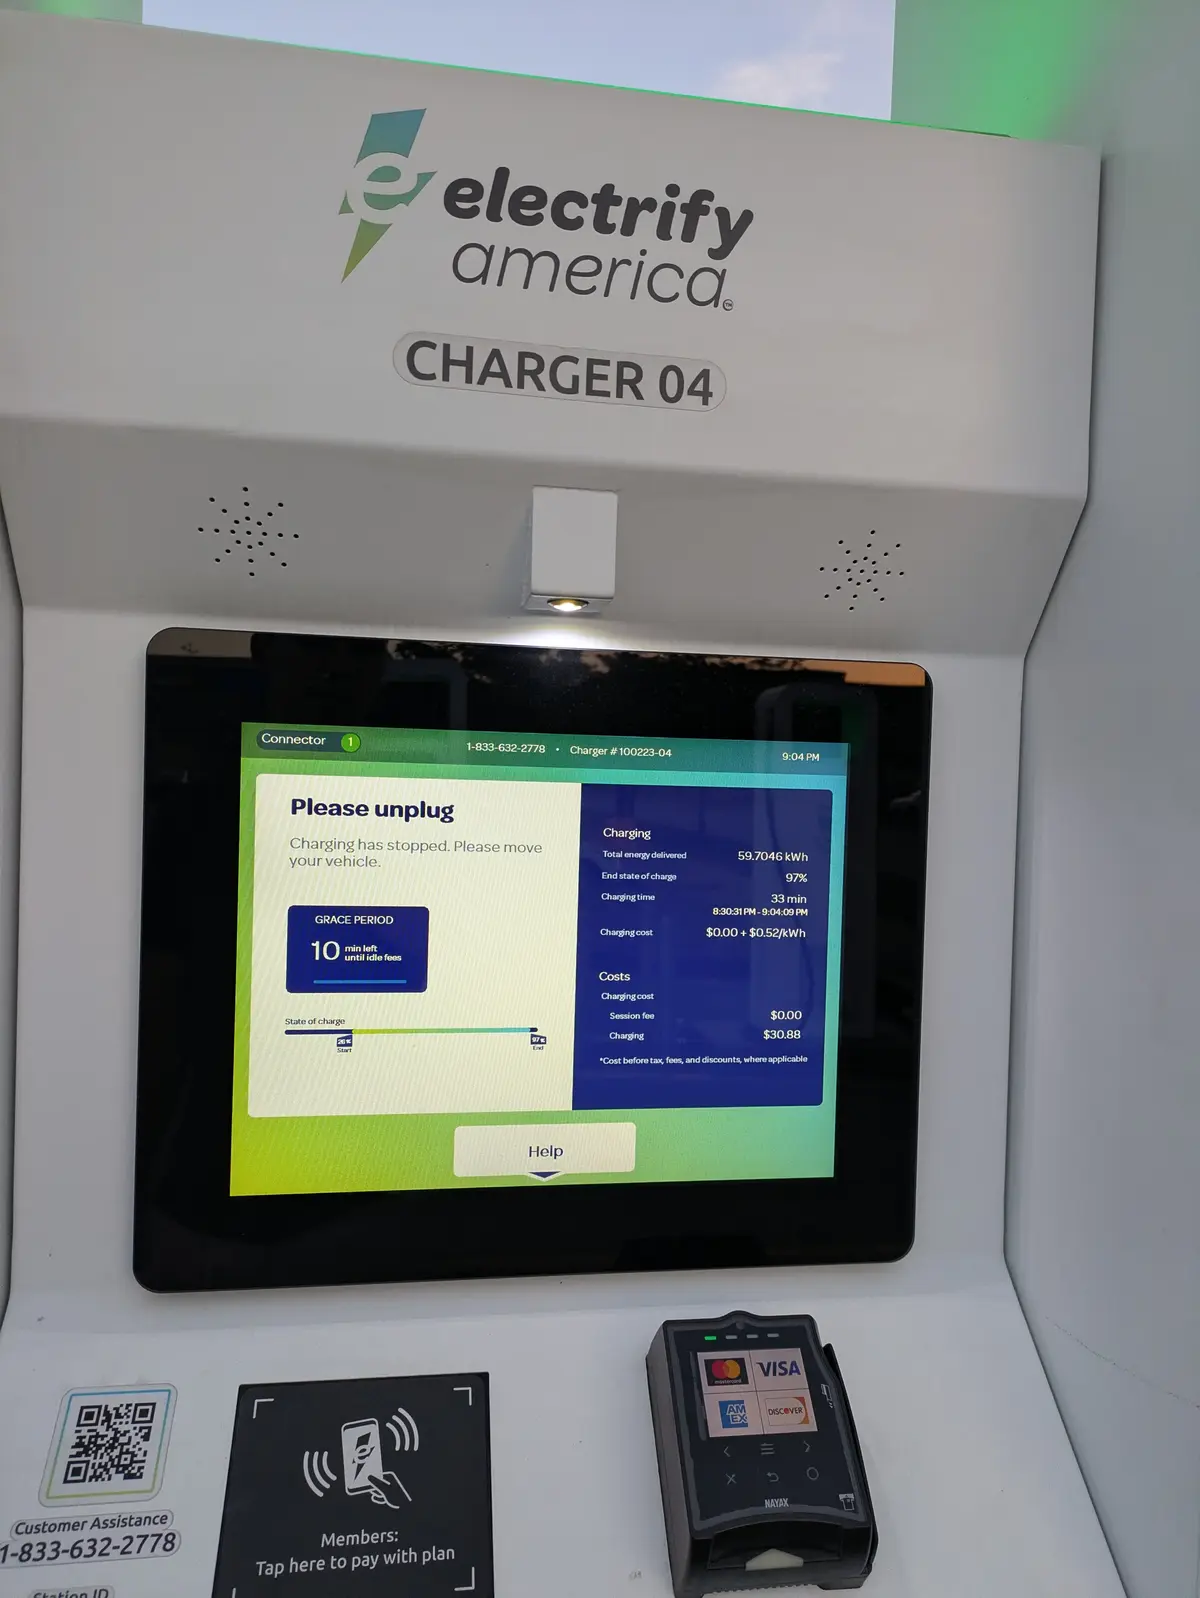
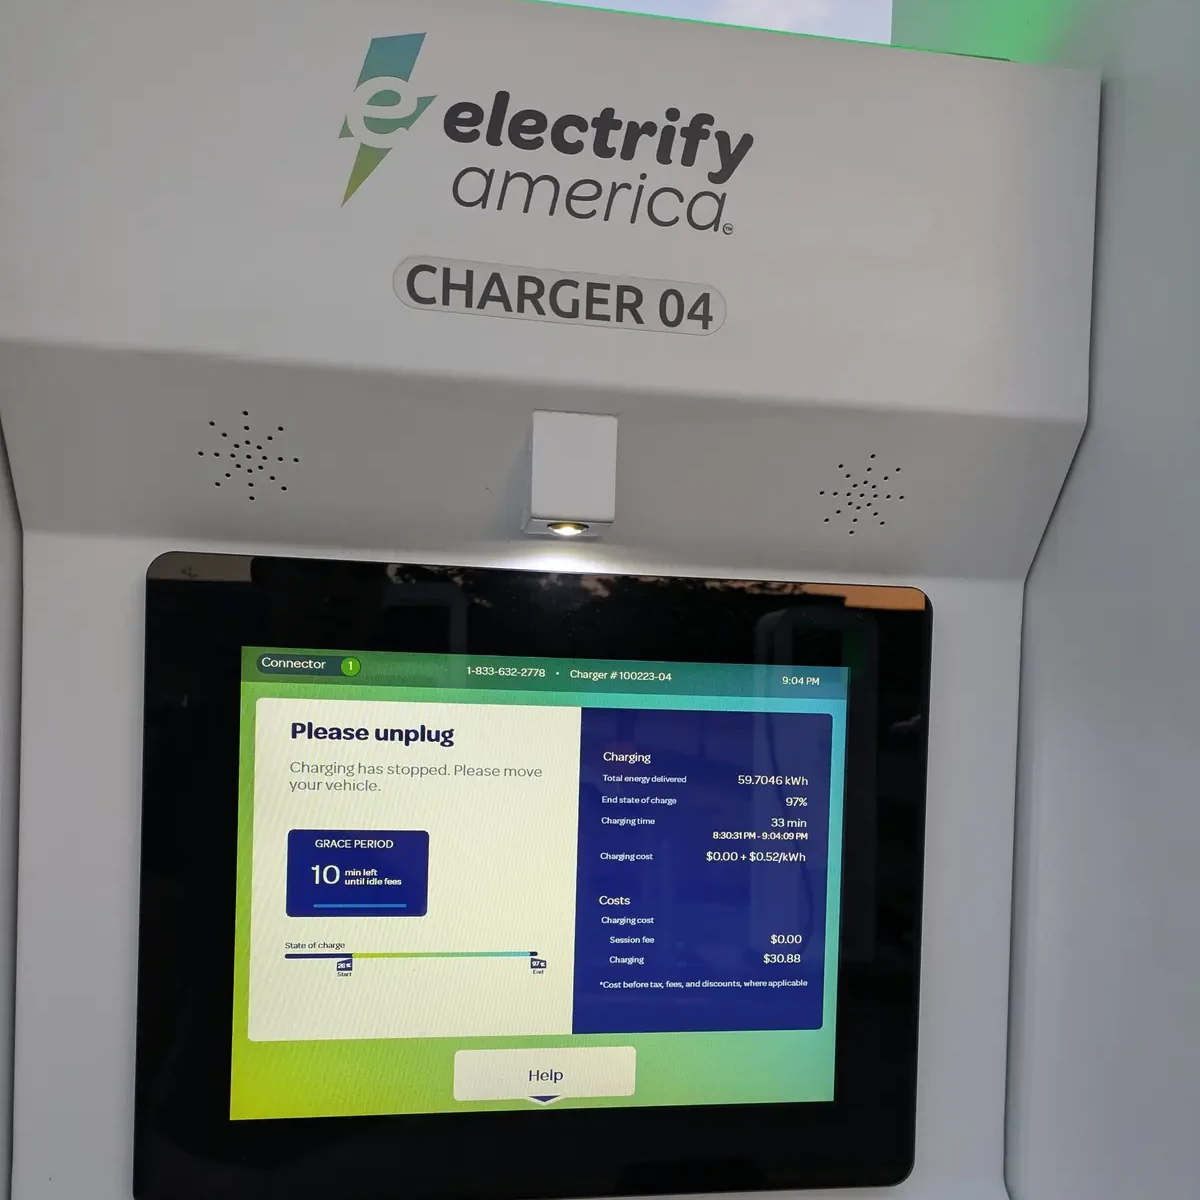
Flesh out EV article more

diff --git a/css/articles/ev-road-trip.scss b/css/articles/ev-road-trip.scss
@@ -13,6 +13,20 @@ $cost-table-title-padding-y: 4px;
 // Vertical padding on the header and total band rows
 $cost-table-band-padding-y: 0.5rem;
 
+// Gap between images in the multi-column image grids
+$image-grid-gap: 1rem;
+// Vertical breathing room above and below an image grid
+$image-grid-margin-y: 1.5rem;
+// Two-column grids hold tall screenshots, so cap them at the site's max content
+// width to keep each image a readable size
+$image-grid-two-col-max-width: 1200px;
+// Three-column grids get more room since each image is only a third as wide
+$image-grid-three-col-max-width: 90vw;
+// Height cap for height-matched grids. Roughly the height a 4:3 charger photo
+// reaches in a three-column grid, so a tall portrait receipt shrinks to sit
+// level with the photos beside it instead of towering over them.
+$image-grid-match-height: 320px;
+
 .cost-table {
   margin-top: 0.5rem;
 
@@ -88,6 +102,67 @@ $cost-table-band-padding-y: 0.5rem;
       max-width: $max-cont-width;
       margin-left: auto;
       margin-right: auto;
+    }
+  }
+}
+
+// Multi-column image layouts. Images stack in a single column on mobile, then
+// break out of the narrow article column on desktop so wide screenshots are
+// actually readable. Column count is set by the -two-col / -three-col modifier.
+.image-grid {
+  display: grid;
+  grid-template-columns: 1fr;
+  gap: $image-grid-gap;
+  margin: $image-grid-margin-y auto;
+
+  // The article's default image shadow only targets images directly inside a
+  // <p>, so re-apply it here to match the rest of the post's images.
+  img {
+    width: 100%;
+    border: solid 1px $grey;
+    box-shadow: 1px 1px 5px $shadow-color;
+    margin: 0 !important;
+  }
+
+  // Same full-bleed trick as .cost-table: escape the narrow article column with
+  // 100vw + translateX, then let each modifier cap its own width. Both stay
+  // centered because the auto side margins split the leftover space evenly.
+  @media (min-width: $desktop-min-width) {
+    width: 100vw;
+    margin-left: 50%;
+    transform: translateX(-50%);
+    // Screenshots vary in aspect ratio, so top-align them rather than
+    // stretching every image to the tallest one's height.
+    align-items: start;
+
+    &.-two-col {
+      grid-template-columns: repeat(2, 1fr);
+      max-width: $image-grid-two-col-max-width;
+    }
+
+    &.-three-col {
+      grid-template-columns: repeat(3, 1fr);
+      max-width: $image-grid-three-col-max-width;
+    }
+
+    // Portrait screenshots (like charger receipts) render far taller than the
+    // landscape photos beside them. Size these images by a shared height rather
+    // than a shared width, so each keeps its own aspect ratio and they all sit
+    // level - the portrait ones simply end up narrower. Equal-width grid
+    // columns would strand those narrow images in wide columns, so use a
+    // centered flex row that gives each image only the width its height
+    // implies. Mobile is untouched: images stay stacked and full width there.
+    &.-match-heights {
+      display: flex;
+      justify-content: center;
+
+      img {
+        height: $image-grid-match-height;
+        width: auto;
+        // Without this the flex row would squeeze images narrower than the
+        // width their fixed height calls for, distorting them.
+        flex-shrink: 0;
+      }
     }
   }
 }

diff --git a/_posts/2026-07-15-ev-road-tripping.md b/_posts/2026-07-15-ev-road-tripping.md
@@ -190,14 +190,16 @@ Pilot Flying J in Waddy, KY - 24% to 82% for $36.16 in 18 minutes
 
 Electrify America in Indianapolis, IN - 19% to 65% for $22.92 in 13 minutes.
 
-<img src="/post-assets/ev-roadtrip/day3/electrifyamerica-day3-indianapolis.webp" loading="lazy"
-    alt="TODO">
+<div class="image-grid -three-col -match-heights">
+  <img src="/post-assets/ev-roadtrip/day3/electrifyamerica-day3-indianapolis.webp" loading="lazy"
+      alt="TODO">
 
-<img src="/post-assets/ev-roadtrip/day3/electrifyamerica-day3-final-charge.webp" loading="lazy"
-    alt="TODO">
+  <img src="/post-assets/ev-roadtrip/day3/electrifyamerica-day3-final-charge.webp" loading="lazy"
+      alt="TODO">
 
-<img src="/post-assets/ev-roadtrip/day3/electrifyamerica-day3-indianapolis-receipt.webp" loading="lazy"
-    alt="TODO">
+  <img src="/post-assets/ev-roadtrip/day3/electrifyamerica-day3-indianapolis-receipt.webp" loading="lazy"
+      alt="TODO">
+</div>
 
 ## Stop 3
 
@@ -321,19 +323,20 @@ As an example, here's some listings for used Hyundai ioniq 5 EVs, with many unde
 Chevy Bolts, with several under $16,000! These charge more slowly, but still have pretty good (250mi)
 range.
 
-<img src="/post-assets/ev-roadtrip/ioniq5-used-prices.webp" loading="lazy"
-    alt="Edmunds search results for used Hyundai IONIQ 5s near Chicago, Illinois, showing 98
-      listings. Four are visible: a 2024 SE with 24,703 miles for $22,410, a 2024 SEL with 17,000
-      miles for $22,988, a 2024 SEL with 9,953 miles for $25,407, and a 2025 SEL with 5,442 miles
-      for $33,990. A banner advertises $5,100 in IONIQ 5 rebates.">
+<div class="image-grid -two-col">
+  <img src="/post-assets/ev-roadtrip/ioniq5-used-prices.webp" loading="lazy"
+      alt="Edmunds search results for used Hyundai IONIQ 5s near Chicago, Illinois, showing 98
+        listings. Four are visible: a 2024 SE with 24,703 miles for $22,410, a 2024 SEL with 17,000
+        miles for $22,988, a 2024 SEL with 9,953 miles for $25,407, and a 2025 SEL with 5,442 miles
+        for $33,990. A banner advertises $5,100 in IONIQ 5 rebates.">
 
-
-<img src="/post-assets/ev-roadtrip/bolt-used-prices.webp" loading="lazy"
-    alt="Carvana search results for used Chevrolet Bolts, showing 95 cars. Six are visible: a 2023
-      Bolt EV 2LT with 40k miles for $21,590, a 2023 Bolt EUV LT with 100k miles for $15,590, a 2019
-      Bolt EV Premier with 90k miles for $15,990, a 2019 Bolt EV Premier with 74k miles for $15,990,
-      a 2021 Bolt EV LT with 42k miles for $18,590, and a 2021 Bolt EV LT with 100k miles for
-      $14,990.">
+  <img src="/post-assets/ev-roadtrip/bolt-used-prices.webp" loading="lazy"
+      alt="Carvana search results for used Chevrolet Bolts, showing 95 cars. Six are visible: a 2023
+        Bolt EV 2LT with 40k miles for $21,590, a 2023 Bolt EUV LT with 100k miles for $15,590, a
+        2019 Bolt EV Premier with 90k miles for $15,990, a 2019 Bolt EV Premier with 74k miles for
+        $15,990, a 2021 Bolt EV LT with 42k miles for $18,590, and a 2021 Bolt EV LT with 100k miles
+        for $14,990.">
+</div>
 
 #### Check for Rebates
 
